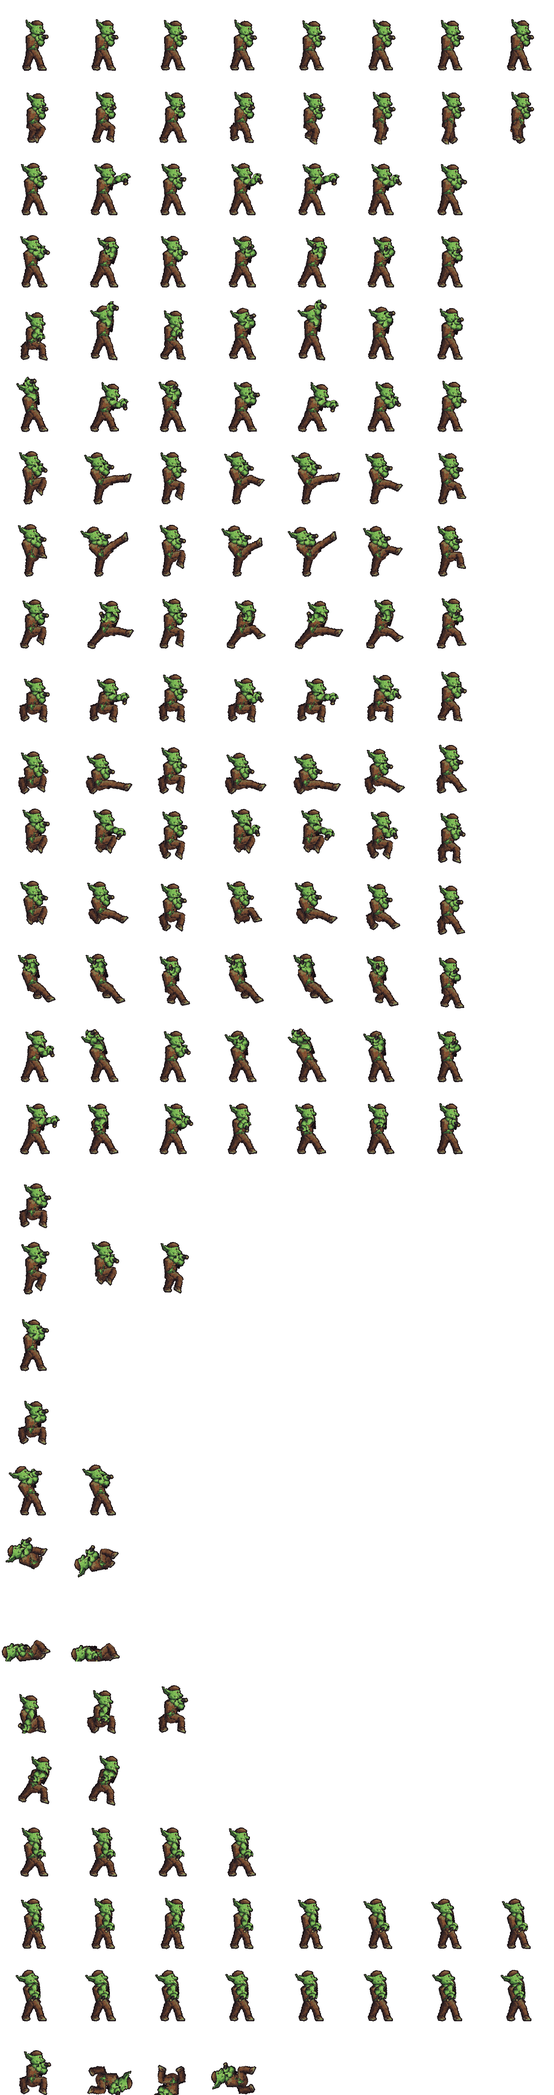
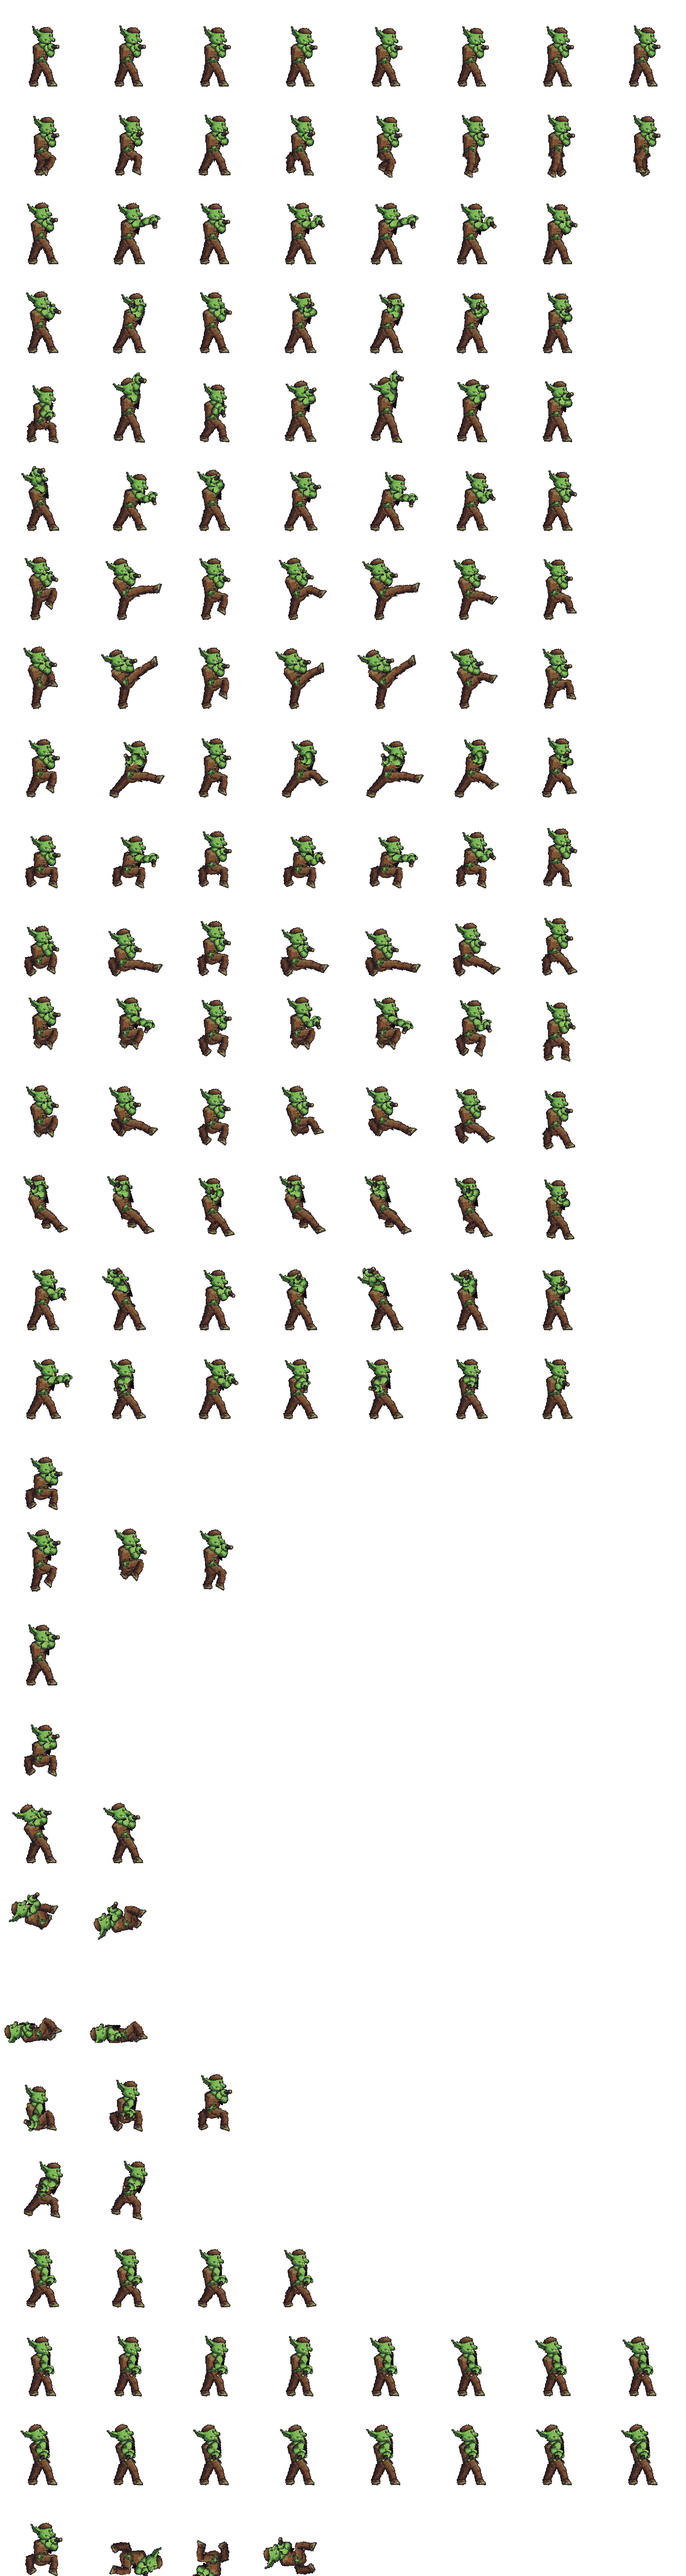
Add files via upload

diff --git a/js/art.js b/js/art.js
@@ -1,5 +1,5 @@
 /* DEGEN DOJO: baked pixel-art fighter sheets (generated). Rows follow DD.Sprites.ANIM_LIST; 2 px per sprite unit, drawn at ZOOM. */
-DD.SPRITE_ART_COMMON={cell:[184,192],anchor:[88,180],unit:2,zoom:1.25,anims:{"idle": {"row": 0, "n": 8}, "walk": {"row": 1, "n": 8}, "jab": {"row": 2, "n": 7}, "punch": {"row": 3, "n": 7}, "upper": {"row": 4, "n": 7}, "heavy": {"row": 5, "n": 7}, "kick": {"row": 6, "n": 7}, "round": {"row": 7, "n": 7}, "lunge": {"row": 8, "n": 7}, "cpunch": {"row": 9, "n": 7}, "ckick": {"row": 10, "n": 7}, "jpunch": {"row": 11, "n": 7}, "jkick": {"row": 12, "n": 7}, "dive": {"row": 13, "n": 7}, "throw": {"row": 14, "n": 7}, "special": {"row": 15, "n": 7}, "crouch": {"row": 16, "n": 1}, "jump": {"row": 17, "n": 3}, "block": {"row": 18, "n": 1}, "cblock": {"row": 19, "n": 1}, "hit": {"row": 20, "n": 2}, "fall": {"row": 21, "n": 2}, "kd": {"row": 22, "n": 2}, "getup": {"row": 23, "n": 3}, "dash": {"row": 24, "n": 2}, "charge": {"row": 25, "n": 4}, "dizzy": {"row": 26, "n": 8}, "win": {"row": 27, "n": 8}, "ball": {"row": 28, "n": 4}, "grab": {"row": 14, "n": 1}, "intro": {"row": 27, "n": 8}}};
+DD.SPRITE_ART_COMMON={cell:[228,236],anchor:[110,222],unit:2,zoom:1,anims:{"idle": {"row": 0, "n": 8}, "walk": {"row": 1, "n": 8}, "jab": {"row": 2, "n": 7}, "punch": {"row": 3, "n": 7}, "upper": {"row": 4, "n": 7}, "heavy": {"row": 5, "n": 7}, "kick": {"row": 6, "n": 7}, "round": {"row": 7, "n": 7}, "lunge": {"row": 8, "n": 7}, "cpunch": {"row": 9, "n": 7}, "ckick": {"row": 10, "n": 7}, "jpunch": {"row": 11, "n": 7}, "jkick": {"row": 12, "n": 7}, "dive": {"row": 13, "n": 7}, "throw": {"row": 14, "n": 7}, "special": {"row": 15, "n": 7}, "crouch": {"row": 16, "n": 1}, "jump": {"row": 17, "n": 3}, "block": {"row": 18, "n": 1}, "cblock": {"row": 19, "n": 1}, "hit": {"row": 20, "n": 2}, "fall": {"row": 21, "n": 2}, "kd": {"row": 22, "n": 2}, "getup": {"row": 23, "n": 3}, "dash": {"row": 24, "n": 2}, "charge": {"row": 25, "n": 4}, "dizzy": {"row": 26, "n": 8}, "win": {"row": 27, "n": 8}, "ball": {"row": 28, "n": 4}, "grab": {"row": 14, "n": 1}, "intro": {"row": 27, "n": 8}}};
 DD.SPRITE_IDLE={src:'img/fighters/_idle.png',order:["diamond", "paper", "moon", "rug", "linegoup", "bear", "bull", "whale", "gas", "brain", "copium", "npc", "clickbait", "keyboard", "grass", "sigma", "skill", "ratio", "main", "lag", "shiba", "cat", "unit", "doom"]};
 DD.SPRITE_ART={};
 DD.SPRITE_ART['diamond']=Object.assign({src:'img/fighters/diamond.png'},DD.SPRITE_ART_COMMON);

diff --git a/js/game.js b/js/game.js
@@ -255,7 +255,7 @@ class Fight {
   pushApart(){
     const [a,b]=this.p;
     if(a.hidden||b.hidden||a.state==='ko'||b.state==='ko'||a.passThru||b.passThru) return;
-    const dx=b.x-a.x, dy=Math.abs(a.y-b.y); let min=18*((a.size+b.size)/2);
+    const dx=b.x-a.x, dy=Math.abs(a.y-b.y); let min=22*((a.size+b.size)/2);
     const aAir0=!a.grounded, bAir0=!b.grounded;
     if(aAir0!==bAir0){ // one jumper vs one grounded: small air pushbox, and a jumper heading across sails over
       const jm=aAir0?a:b, gr=aAir0?b:a, toward=Math.sign(gr.x-jm.x);
@@ -751,7 +751,7 @@ class Fight {
     panel(true,ca,sl); panel(false,cb,sl2);
     ctx.fillStyle='#ffd23f'; ctx.save(); ctx.beginPath(); ctx.moveTo(cut+30,-10); ctx.lineTo(cut+34,-10); ctx.lineTo(cut-26,AH+10); ctx.lineTo(cut-30,AH+10); ctx.closePath(); ctx.globalAlpha=Math.min(sl,sl2); ctx.fill(); ctx.restore();
     // fighters
-    const draw=(f,left,k)=>{ const cv=DD.Sprites.get(f.spec,'win',(t/6)|0,f.alt,t<34&&t>30), s=1.7/DD.Sprites.RES*2, x=left?120-(1-k)*260:AW-120+(1-k)*260;
+    const draw=(f,left,k)=>{ const cv=DD.Sprites.get(f.spec,'win',(t/6)|0,f.alt,t<34&&t>30), s=3/DD.Sprites.RES, x=left?120-(1-k)*260:AW-120+(1-k)*260;
       ctx.save(); ctx.translate(x,AH+40); ctx.scale((left?1:-1)*s,s); ctx.drawImage(cv,-cv._ox,-cv._oy); ctx.restore(); };
     draw(a,true,ease((t-4)/24)); draw(b,false,ease((t-10)/24));
     // names
@@ -829,7 +829,7 @@ class Fight {
     const g=ctx.createLinearGradient(0,0,AW,0); g.addColorStop(0,'#2b1405'); g.addColorStop(left?0.35:0.65,f.spec.top==='#ffffff'||f.spec.top==='#f2f2f2'?'#ff6a00':f.spec.top); g.addColorStop(1,'#2b1405');
     ctx.fillStyle=g; ctx.fillRect(0,y,AW,h);
     ctx.fillStyle='rgba(255,255,255,0.18)'; for(let i=0;i<14;i++){ const ly=y+4+((i*37)%(h-8)), lx=((i*91 + t*(left?-22:22))%(AW+120)+AW+120)%(AW+120)-60; ctx.fillRect(lx,ly,60+((i*13)%50),1.5); }
-    const cv=DD.Sprites.get(f.spec,'win',0,f.alt,false), k=1.9/DD.Sprites.RES, px=left?92:AW-92;
+    const cv=DD.Sprites.get(f.spec,'win',0,f.alt,false), k=2/DD.Sprites.RES, px=left?92:AW-92;
     ctx.save(); ctx.translate(px,y+h+70); ctx.scale((left?1:-1)*k,k); ctx.drawImage(cv,-cv._ox,-cv._oy); ctx.restore();
     ctx.restore();
     ctx.fillStyle='#ffd23f'; ctx.fillRect(0,y+h-2,AW,2); ctx.fillRect(0,y,AW,2);

diff --git a/js/main.js b/js/main.js
@@ -48,7 +48,7 @@ function drawTitle(){
   tc.drawImage(titleStage,0,0);
   lineup.forEach((s,i)=>{
     const x=60+i*60, y=238+(i===3?2:0), cv=DD.Sprites.get(s,'idle',((tf/22)|0)+i,false,false);
-    const sc=(i===3?1.6:1.3)/DD.Sprites.RES, dir=i<=3?1:-1;
+    const sc=1/DD.Sprites.RES, dir=i<=3?1:-1; // 1 art pixel = 1 screen pixel: crisp, no uneven pixels
     tc.fillStyle='rgba(43,20,5,.35)'; tc.beginPath(); tc.ellipse(x,y+1,14*sc*DD.Sprites.RES,3,0,0,7); tc.fill();
     tc.save(); tc.translate(x,y); tc.scale(dir*sc,sc); tc.drawImage(cv,-cv._ox,-cv._oy); tc.restore();
   });
